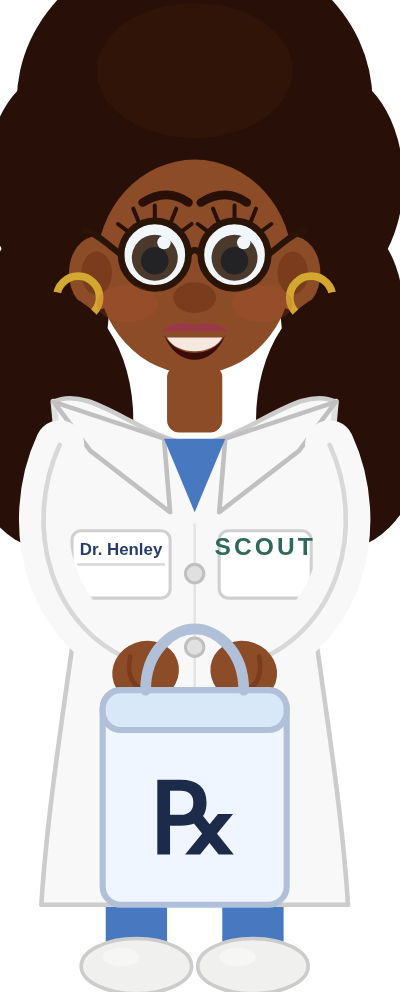
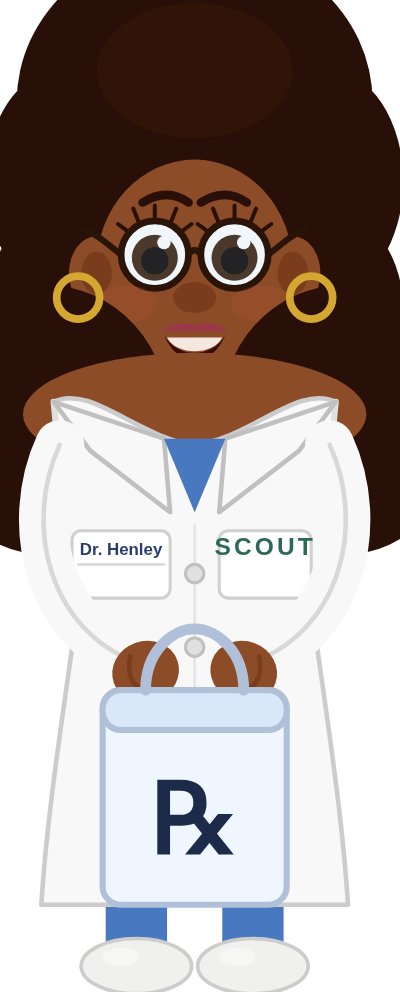
Fix neck gap, hair coverage, and earring layering on Dr. Henley
- Widen behind-shoulder hair ellipses (rx 28→40) to bridge gap next to neck
- Add skin-colored chest ellipse under coat to eliminate transparent gap
- Move earring circles to draw after coat so they appear in front of hair

diff --git a/scout.html b/scout.html
@@ -557,8 +557,6 @@ a:focus-visible { outline: 2px solid var(--orange); outline-offset: 3px; border-
         <ellipse cx="260" cy="74" rx="9" ry="12" fill="#8C4C28"/>
         <ellipse cx="196" cy="74" rx="5" ry="7" fill="#7A3C1C"/>
         <ellipse cx="260" cy="74" rx="5" ry="7" fill="#7A3C1C"/>
-        <circle cx="190" cy="82" r="7" fill="none" stroke="#D4A830" stroke-width="2.5"/>
-        <circle cx="266" cy="82" r="7" fill="none" stroke="#D4A830" stroke-width="2.5"/>
         <path d="M 211,51 Q 219,46 226,51" stroke="#281008" stroke-width="2.8" fill="none" stroke-linecap="round"/>
         <path d="M 230,51 Q 238,46 245,51" stroke="#281008" stroke-width="2.8" fill="none" stroke-linecap="round"/>
         <g class="vet-eye-l">
@@ -597,12 +595,15 @@ a:focus-visible { outline: 2px solid var(--orange); outline-offset: 3px; border-
         <ellipse cx="247" cy="300" rx="18" ry="9" fill="#F0F0EE" stroke="#CCCCCC" stroke-width="1.2"/>
         <ellipse cx="204" cy="297" rx="6" ry="3" fill="white" opacity="0.4"/>
         <ellipse cx="242" cy="297" rx="6" ry="3" fill="white" opacity="0.4"/>
-        <ellipse cx="180" cy="122" rx="28" ry="42" fill="#281008"/>
-        <ellipse cx="276" cy="122" rx="28" ry="42" fill="#281008"/>
+        <ellipse cx="180" cy="122" rx="40" ry="44" fill="#281008"/>
+        <ellipse cx="276" cy="122" rx="40" ry="44" fill="#281008"/>
+        <ellipse cx="228" cy="120" rx="56" ry="20" fill="#8C4C28"/>
         <path d="M 182,116 C 184,134 184,158 190,182 C 186,212 180,248 178,280 L 278,280 C 276,248 270,212 266,182 C 272,158 272,134 274,116 C 262,110 246,128 228,130 C 210,128 194,110 182,116 Z" fill="#F8F8F8" stroke="#CCCCCC" stroke-width="1.5"/>
         <polygon points="182,116 218,128 220,152 194,132" fill="#F8F8F8" stroke="#C0C0C0" stroke-width="1.5"/>
         <polygon points="274,116 238,128 236,152 262,132" fill="#F8F8F8" stroke="#C0C0C0" stroke-width="1.5"/>
         <polygon points="218,128 238,128 228,152" fill="#4878C0"/>
+        <circle cx="190" cy="82" r="7" fill="none" stroke="#D4A830" stroke-width="2.5"/>
+        <circle cx="266" cy="82" r="7" fill="none" stroke="#D4A830" stroke-width="2.5"/>
         <line x1="228" y1="156" x2="228" y2="274" stroke="#D0D0D0" stroke-width="0.8" opacity="0.5"/>
         <circle cx="228" cy="172" r="3" fill="#E0E0E0" stroke="#C0C0C0" stroke-width="1"/>
         <circle cx="228" cy="196" r="3" fill="#E0E0E0" stroke="#C0C0C0" stroke-width="1"/>
